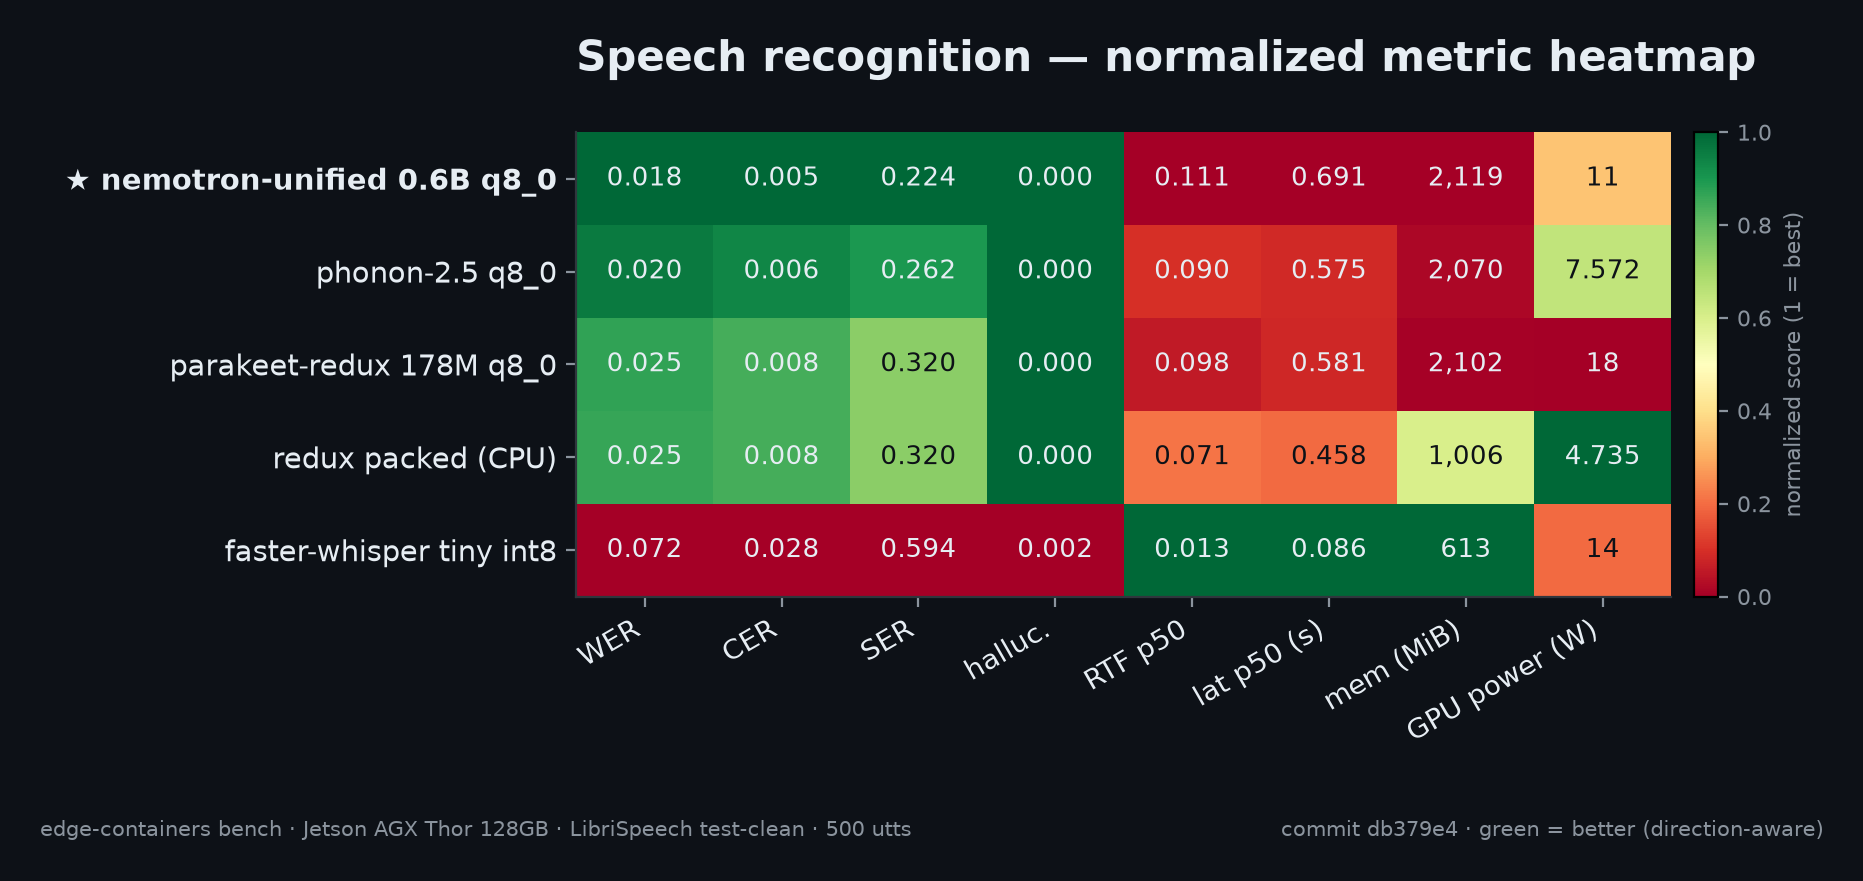
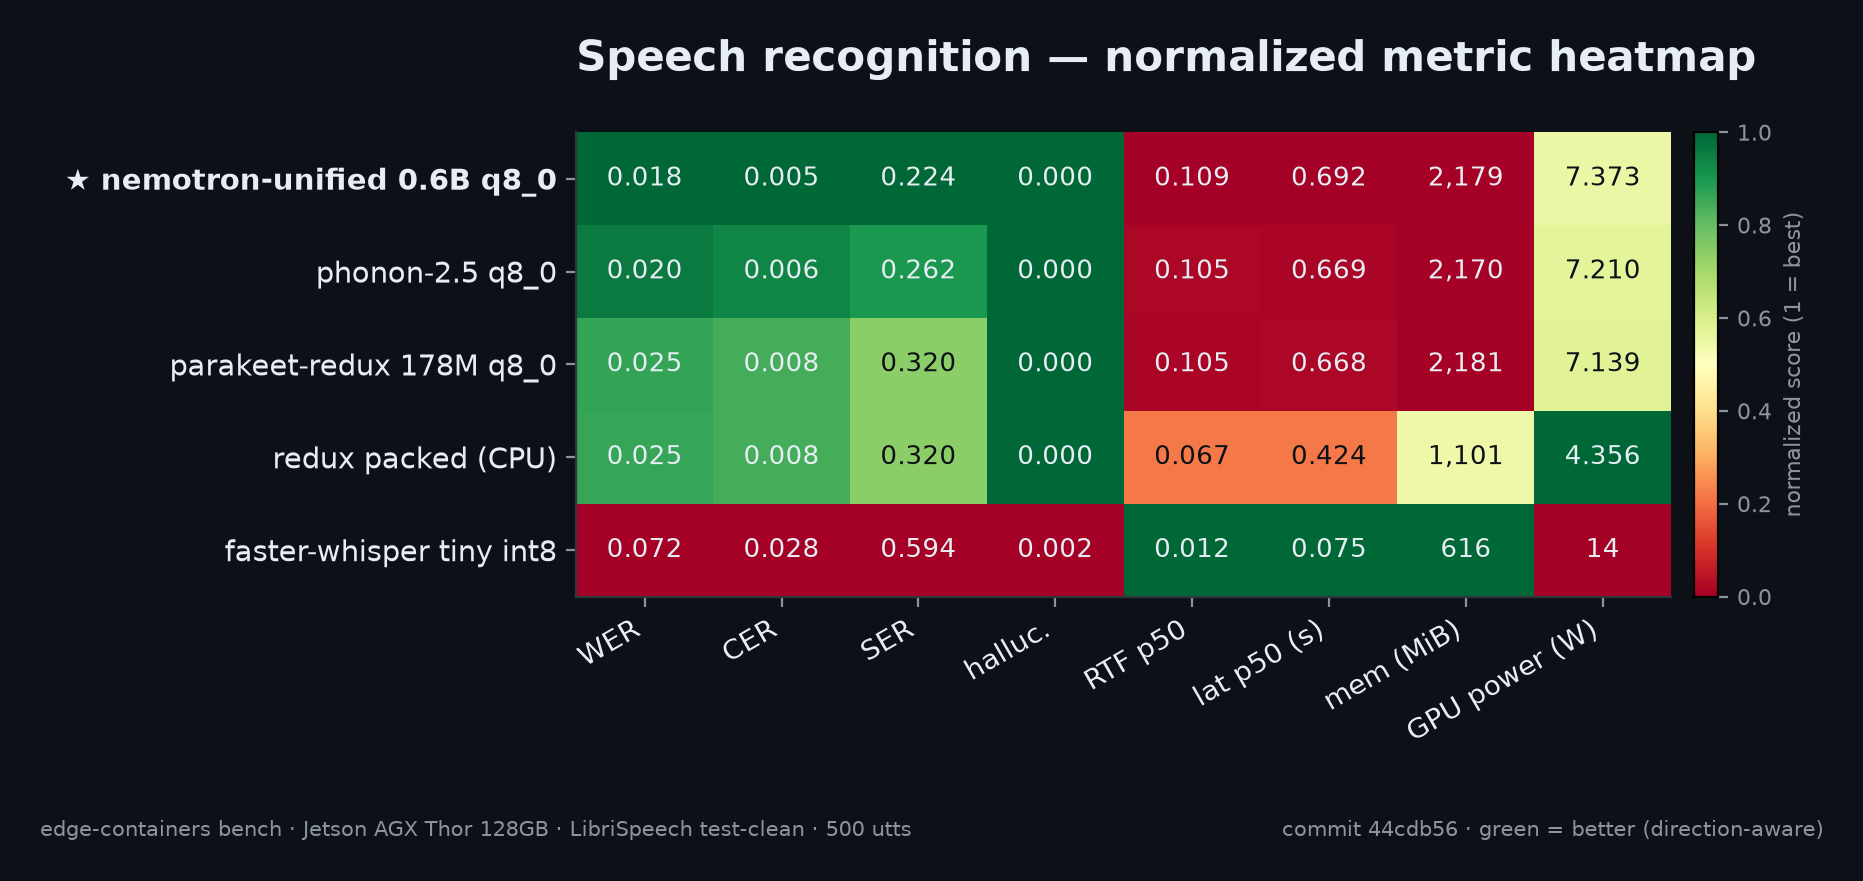
hygiene baselines promoted: real anon memory readings; old runs purged

diff --git a/README.md b/README.md
@@ -92,7 +92,7 @@ the committed raw artifacts; full tables and charts in [Benchmarks](#-benchmarks
 
 > Rendered from the raw benchmark artifacts (`benchmarks/raw/`, `benchmarks/history.jsonl`)
 by `bench plot --readme` — regenerate with `make bench-plot`. 
-> Cohort: **jetson-agx-thor-128gb · default power · commit 4dd4272 · 2026-10-31**.
+> Cohort: **jetson-agx-thor-128gb · default power · commit 44cdb56 · 2026-11-01**.
 Charts: ★ marks the best engine for that chart's metric. Memory: **cgroup MiB**
 counts the container's active file cache too (the model was just read from
 disk); **anon MiB** is true process memory.
@@ -102,15 +102,15 @@ disk); **anon MiB** is true process memory.
 
 | engine | model | backend | WER | CER | SER | halluc. | RTF p50 | RTF p90 | lat p50 (s) | lat p90 (s) | cgroup MiB | anon MiB | GPU W |
 |---|--:|--:|--:|--:|--:|--:|--:|--:|--:|--:|--:|--:|--:|
-| 🥇 nemotron-unified-asr | nemotron-unified 0.6B q8_0 | cuda | $\color{#3fb950}{\text{0.0177}}$ | $\color{#3fb950}{\text{0.0047}}$ | $\color{#3fb950}{\text{0.2240}}$ | $\color{#3fb950}{\text{0.0000}}$ | $\color{#f85149}{\text{0.1113}}$ | $\color{#f85149}{\text{0.2486}}$ | $\color{#f85149}{\text{0.6912}}$ | 0.8496 | 2,119 | — | 11 |
-| 🥈 phonon2-stt | phonon-2.5 q8_0 | cuda | 0.0199 | 0.0061 | 0.2620 | $\color{#3fb950}{\text{0.0000}}$ | 0.0900 | 0.2010 | 0.5754 | 0.6871 | 2,070 | — | 8 |
-| 🥉 parakeet-redux-stt | parakeet-redux 178M q8_0 | cuda | 0.0249 | 0.0083 | 0.3200 | $\color{#3fb950}{\text{0.0000}}$ | 0.0984 | 0.2206 | 0.5806 | 0.7790 | 2,102 | — | 18 |
-| parakeet-redux-stt | redux packed (CPU) | cpu | 0.0252 | 0.0083 | 0.3200 | $\color{#3fb950}{\text{0.0000}}$ | 0.0707 | 0.1041 | 0.4580 | $\color{#f85149}{\text{0.9607}}$ | 1,006 | — | — (CPU) |
-| wyoming-faster-whisper | faster-whisper tiny int8 | cuda | $\color{#f85149}{\text{0.0722}}$ | $\color{#f85149}{\text{0.0280}}$ | $\color{#f85149}{\text{0.5940}}$ | $\color{#f85149}{\text{0.0020}}$ | $\color{#3fb950}{\text{0.0130}}$ | $\color{#3fb950}{\text{0.0185}}$ | $\color{#3fb950}{\text{0.0857}}$ | $\color{#3fb950}{\text{0.1507}}$ | 613 | — | 14 |
+| 🥇 nemotron-unified-asr | nemotron-unified 0.6B q8_0 | cuda | $\color{#3fb950}{\text{0.0177}}$ | $\color{#3fb950}{\text{0.0047}}$ | $\color{#3fb950}{\text{0.2240}}$ | $\color{#3fb950}{\text{0.0000}}$ | $\color{#f85149}{\text{0.1092}}$ | $\color{#f85149}{\text{0.2380}}$ | $\color{#f85149}{\text{0.6920}}$ | 0.7954 | 2,179 | 1,029 | 7 |
+| 🥈 phonon2-stt | phonon-2.5 q8_0 | cuda | 0.0199 | 0.0061 | 0.2620 | $\color{#3fb950}{\text{0.0000}}$ | 0.1051 | 0.2321 | 0.6686 | 0.7717 | 2,170 | 1,030 | 7 |
+| 🥉 parakeet-redux-stt | parakeet-redux 178M q8_0 | cuda | 0.0249 | 0.0083 | 0.3200 | $\color{#3fb950}{\text{0.0000}}$ | 0.1055 | 0.2323 | 0.6677 | 0.7716 | 2,181 | 1,031 | 7 |
+| parakeet-redux-stt | redux packed (CPU) | cpu | 0.0252 | 0.0083 | 0.3200 | $\color{#3fb950}{\text{0.0000}}$ | 0.0668 | 0.1001 | 0.4241 | $\color{#f85149}{\text{0.8946}}$ | 1,101 | 730 | — (CPU) |
+| wyoming-faster-whisper | faster-whisper tiny int8 | cuda | $\color{#f85149}{\text{0.0721}}$ | $\color{#f85149}{\text{0.0279}}$ | $\color{#f85149}{\text{0.5940}}$ | $\color{#f85149}{\text{0.0020}}$ | $\color{#3fb950}{\text{0.0118}}$ | $\color{#3fb950}{\text{0.0179}}$ | $\color{#3fb950}{\text{0.0748}}$ | $\color{#3fb950}{\text{0.1375}}$ | 616 | 561 | 14 |
 
 *500 utterances · 5 configurations · 🥇 **nemotron-unified 0.6B q8_0** at **1.77% WER**
 (🥇🥈🥉 = composite top 3); fastest RTF p50
-**0.013**. Green = best in column, red = worst. GPU W is the
+**0.012**. Green = best in column, red = worst. GPU W is the
 tegrastats module draw over each engine's window; the packed-CPU engine has none
 (hollow point, idle draw) in the power chart.*
 
@@ -144,14 +144,14 @@ tegrastats module draw over each engine's window; the packed-CPU engine has none
 
 | engine | model | backend | RTF p50 | RTF p90 | synth p50 (s) | synth p90 (s) | TTFA p50 (s) | TTFA p90 (s) | cgroup MiB | anon MiB | GPU W |
 |---|--:|--:|--:|--:|--:|--:|--:|--:|--:|--:|--:|
-| 🥇 kokoro-tts | kokoro 82M int8 | cuda | 0.0850 | $\color{#f85149}{\text{0.1923}}$ | 0.5781 | 1.2016 | 0.5773 | 1.1899 | 1,526 | — | 34 |
-| 🥈 paradee-tts | paradee 8M int8 (CPU) | cpu | $\color{#f85149}{\text{0.1503}}$ | 0.1522 | $\color{#f85149}{\text{1.1309}}$ | $\color{#f85149}{\text{3.2617}}$ | $\color{#f85149}{\text{1.1309}}$ | $\color{#f85149}{\text{3.2617}}$ | 604 | — | — (CPU) |
-| 🥉 paradee-tts | paradee 8M int8 (GPU) | cuda | $\color{#3fb950}{\text{0.0188}}$ | $\color{#3fb950}{\text{0.0462}}$ | $\color{#3fb950}{\text{0.1414}}$ | 0.1912 | 0.1414 | 0.1912 | 1,508 | — | 16 |
-| wyoming-piper1-tts | piper1-tts libritts-r medium | cuda | 0.0334 | 0.0998 | 0.1587 | $\color{#3fb950}{\text{0.1738}}$ | 0.1587 | 0.1738 | 1,149 | — | 12 |
-| phonon31m-tts | phonon-31m (CPU) | cpu | 0.1237 | 0.1553 | 0.7679 | 2.3239 | $\color{#3fb950}{\text{0.0757}}$ | $\color{#3fb950}{\text{0.1124}}$ | 516 | — | — (CPU) |
+| 🥇 kokoro-tts | kokoro 82M int8 | cuda | 0.0482 | 0.0868 | 0.3098 | 0.8135 | 0.3098 | 0.8096 | 1,583 | 1,457 | 14 |
+| 🥈 paradee-tts | paradee 8M int8 (CPU) | cpu | $\color{#f85149}{\text{0.1497}}$ | $\color{#f85149}{\text{0.1516}}$ | $\color{#f85149}{\text{1.1171}}$ | $\color{#f85149}{\text{3.2504}}$ | $\color{#f85149}{\text{1.1171}}$ | $\color{#f85149}{\text{3.2504}}$ | 629 | 563 | — (CPU) |
+| 🥉 paradee-tts | paradee 8M int8 (GPU) | cuda | $\color{#3fb950}{\text{0.0188}}$ | $\color{#3fb950}{\text{0.0462}}$ | $\color{#3fb950}{\text{0.1412}}$ | $\color{#3fb950}{\text{0.1905}}$ | 0.1412 | 0.1905 | 1,513 | 1,418 | 16 |
+| wyoming-piper1-tts | piper1-tts libritts-r medium | cuda | 0.0406 | 0.1210 | 0.1884 | 0.2413 | 0.1884 | 0.2413 | 1,158 | 1,099 | 26 |
+| phonon31m-tts | phonon-31m (CPU) | cpu | 0.1119 | 0.1216 | 0.6763 | 1.9760 | $\color{#3fb950}{\text{0.0663}}$ | $\color{#3fb950}{\text{0.0978}}$ | 512 | 498 | — (CPU) |
 
 *444 sentences · 5 configurations · 🥇🥈🥉 = composite top 3 · fastest RTF p50
-**0.019**; best TTFA p50 **76 ms**
+**0.019**; best TTFA p50 **66 ms**
 (300 ms gate). TTFA = time to first audio: streaming engines report the first
 chunk; single-chunk engines (paradee, piper1-tts) deliver at synthesis completion, so
 their TTFA equals the synth p50/p90.*
